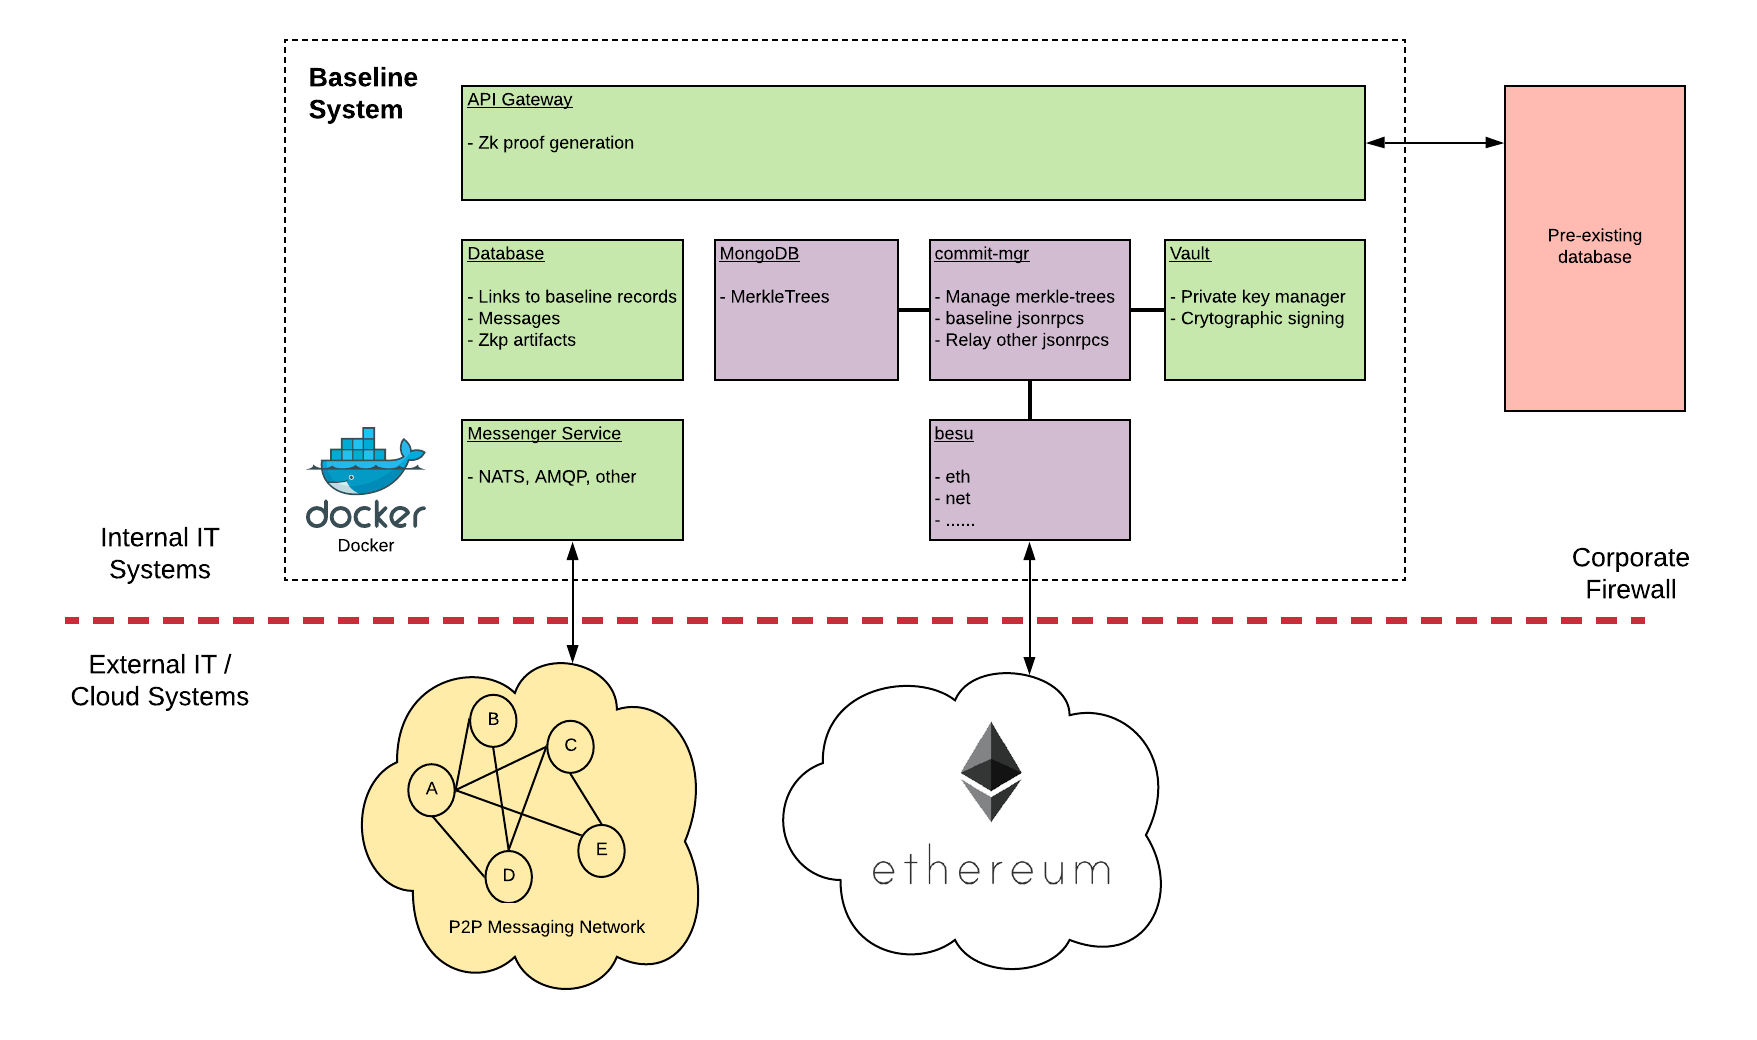
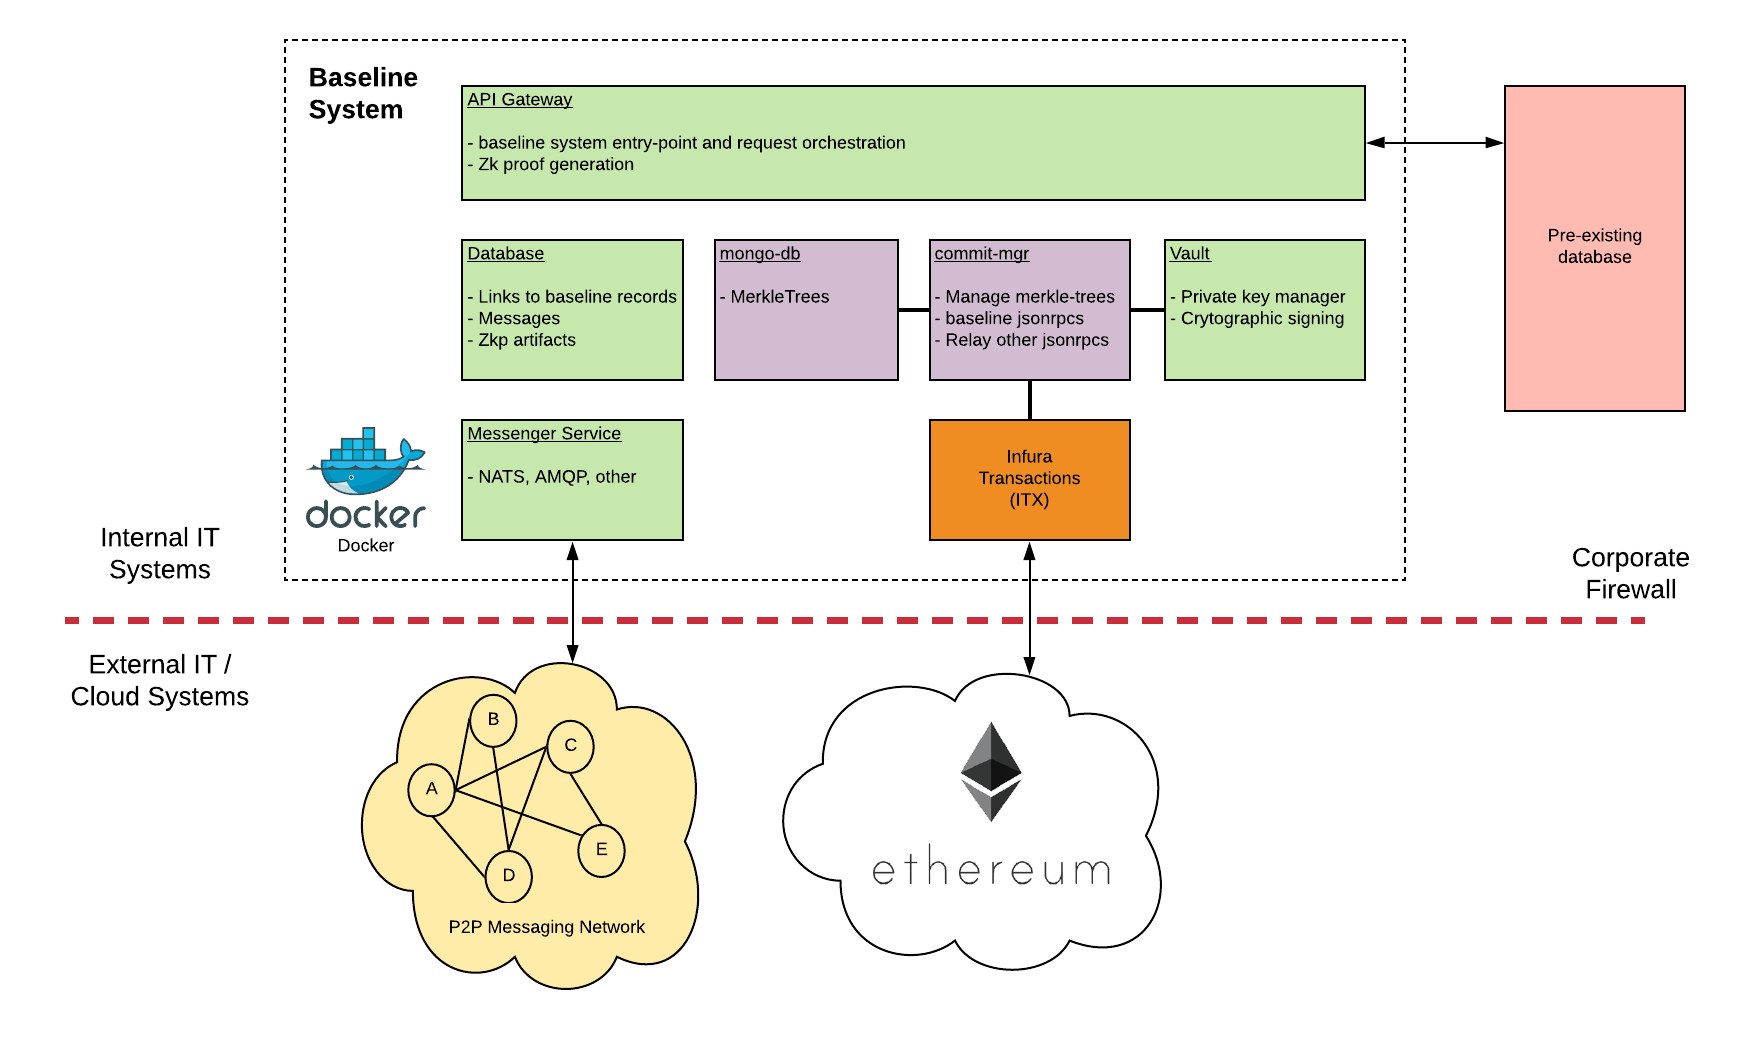
Update commit-mgr documentation

Changed region(s): [[0.5225, 0.4, 0.6454, 0.5231], [0.2766, 0.1231, 0.5225, 0.1846], [0.4303, 0.2154, 0.461, 0.2462]]

diff --git a/examples/bri-2/README.md b/examples/bri-2/README.md
@@ -1,17 +1,19 @@
 # bri-2
 
-`bri-2` is the second "baseline reference implementation". The purpose of this project is to show a baseline stack using different services compared to `bri-1`, but this stack must still comply with the baseline standards and specificiations. `bri-2` introduces the `commit-mgr` service to `baseline`. The `commit-mgr` acts as an extension to a web3 provider, which allows a variety of Ethereum clients to become "baseline compatible". 
+`bri-2` is the second "baseline reference implementation". The purpose of this project is to show a baseline stack using different services compared to `bri-1`, but this stack must still comply with the baseline standards and specificiations, therefore allowing interoperability with other baseline stacks. `bri-2` introduces the `commit-mgr` service to `baseline`. The `commit-mgr` acts as an extension to a web3 provider, which allows a variety of Ethereum clients to become "baseline compatible". 
+
+> Note: `bri-2` is still a work in progress. Components such as a vault/key manager, messenger, and system of record integration need to be added to make it a complete reference implementation.
 
 Here is a comparison of the reference implementations:
 
 | Service Type | bri-1 | bri-2 |
 | -------- | ----- | ----------- |
-| Eth. client | `Nethermind` | `commit-mgr` + `mongo` + `Besu` |
+| Eth. client | `Nethermind` | `commit-mgr` + `mongo` + `ITX` |
 | Key managment |`Provide Vault` | TBD |
 | Messenger | `NATS` | TBD |
 
 ## Proposed Architecture
 
-The purple blocks in the following diagram have been built. The green blocks are proposed services to be added and interact with the exisiting services.
+The purple/orange blocks in the following diagram have been built. The green blocks are proposed services to be added and interact with the exisiting services.
 
 ![baseline-architecture](./docs/bri-2-stack.png)
